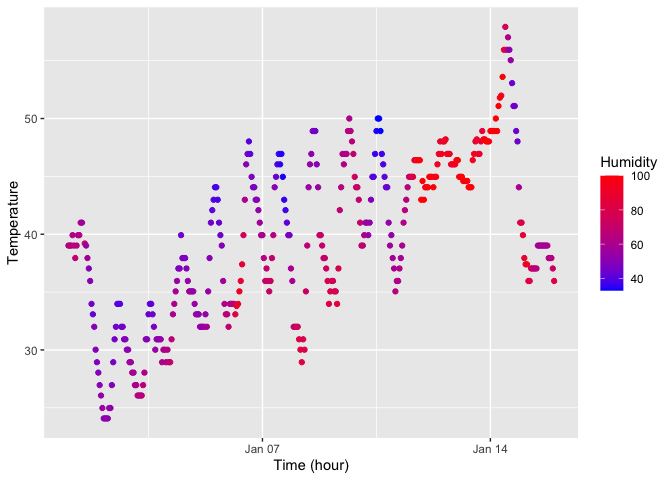
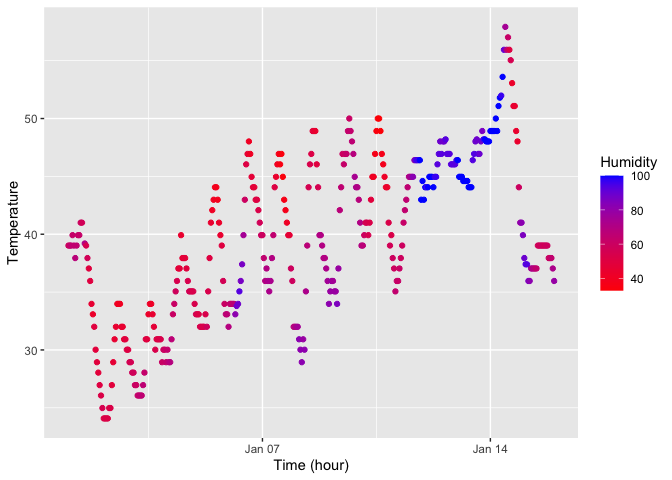
new revision

diff --git a/p8105_hw1_yl5219.md b/p8105_hw1_yl5219.md
@@ -89,7 +89,7 @@ ncol(early_january_weather)
 
     ## [1] 15
 
-We can find the mean temperature using the mean().
+We can find the mean temperature and humidity using the mean().
 
 ``` r
 mean(early_january_weather$temp)
@@ -97,9 +97,25 @@ mean(early_january_weather$temp)
 
     ## [1] 39.58212
 
-Discussion: The important variable in this dataset is temp
-(temperature). The value of temp ranges from 24.08 to 57.92. The dataset
-has 358 rows and 15 columns. The mean temperature is 39.58.
+``` r
+mean(early_january_weather$humid)
+```
+
+    ## [1] 65.4767
+
+``` r
+mean(early_january_weather$time_hour)
+```
+
+    ## [1] "2013-01-08 12:28:09 EST"
+
+Discussion: The dataset has 358 rows and 15 columns. The important
+variable in this dataset are temp (temperature), humid(humidity), and
+time_hour. The value of temp (temperature) ranges from 24.08 to 57.92.
+The mean temperature is 39.58. The value of humid(humidity) ranges from
+32.86 to 100.00. The mean humidity is 65.48. The value of time_hour
+ranges from 2013-01-01 01:00:00 to 2013-01-15 23:00:. The mean humidity
+is 2013-01-08 12:28:09 EST.
 
 Make a scatterplot of temp (y) vs time_hour (x); color points using the
 humid variable (adding color = … inside of aes in your ggplot code
@@ -117,7 +133,7 @@ create scatterplot:
 scatterplot <- ggplot(data = early_january_weather, aes(x = time_hour, y = temp, color = humid)) +
   geom_point() +
   labs(x = "Time (hour)", y = "Temperature", color = "Humidity") +
-  scale_color_gradient(low = "blue", high = "red")
+  scale_color_gradient(low = "red", high = "blue")
 scatterplot
 ```
 
@@ -168,7 +184,7 @@ what doesn’t?
 mean(problem2_df$norm_samp)
 ```
 
-    ## [1] -0.2089138
+    ## [1] -0.2408421
 
 ``` r
 mean(problem2_df$vec_logical)
